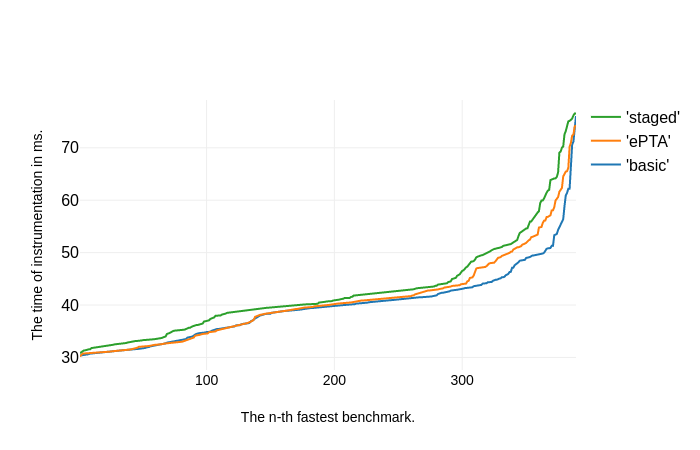
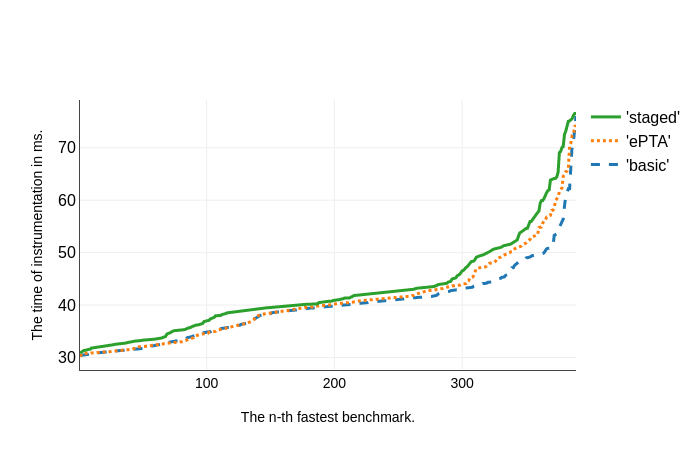
Modify chart for instr times

diff --git a/scripts/instr_times.py b/scripts/instr_times.py
@@ -34,7 +34,9 @@ trace1 = go.Scatter(
     name="'basic'",
     hoverinfo='name',
     line=dict(
-        shape='linear'
+        shape='linear',
+        dash = 'dash',
+        width=3
     )
 )
 trace2 = go.Scatter(
@@ -45,7 +47,9 @@ trace2 = go.Scatter(
     text=["tweak line smoothness<br>with 'smoothing' in line object"],
     hoverinfo='text+name',
     line=dict(
-        shape='linear'
+        shape='linear',
+        dash = 'dot',
+        width=3
     )
 )
 trace3 = go.Scatter(
@@ -55,7 +59,8 @@ trace3 = go.Scatter(
     name="'staged'",
     hoverinfo='name',
     line=dict(
-        shape='linear'
+        shape='linear',
+        width=3
     )
 )
 data = [trace1, trace2, trace3]
@@ -69,7 +74,9 @@ layout = dict(
         tickfont=dict(
             color='black',
             size=14
-        )
+        ),
+        zeroline=True,
+        showline=True
    ),
    yaxis=dict(
         title='The time of instrumentation in ms.',
@@ -80,7 +87,10 @@ layout = dict(
         tickfont=dict(
             color='black',
             size=16
-        )
+        ),
+        zeroline=True,
+        zerolinecolor='black',
+        showline=True
    ),
    legend=dict(
         traceorder='reversed',
